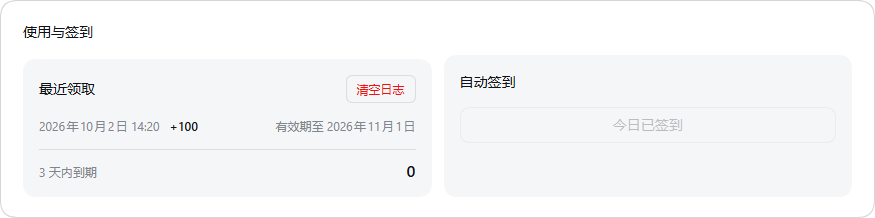
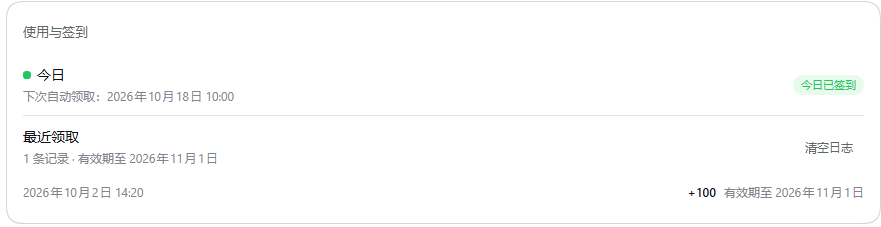
docs(readme): refresh the UI tour and explain npm/market distribution
- regenerate the tour images from the 0.4.0 UI (composer chip, quota
  panel, account/sign-in cards, model card) so no screenshot shows the
  old package name
- add a distribution section: GitHub install (prebuilt lib) vs npm
  install (once published, no build permission) and why the market
  finds a plugin only through its configured index, not the npm search
- localize the settings-page screenshot captions

diff --git a/README.md b/README.md
@@ -52,7 +52,7 @@
 
 设置页是四张紧凑设置卡：**账号**（登录状态、套餐、凭证来源、变体切换、更换/清除 PAT）、**签到**（今日领取、最近领取台账、清空日志）、**模型**（目录来源与刷新、逐模型开关、上下文窗口滑块、统一保存）、**高级设置**（每日自动签到与签到时刻、刷新间隔、额度读数开关）。额度展示已移到输入框读数，页面不再堆叠空卡片。所有数值来自 Qoder 接口，未声明的条目不凭空出现。
 
-![插件详情页：账号与可用额度](assets/plugin-page.png)
+![设置卡片：账号与签到](assets/plugin-page.png)
 
 「签到」把今日领取、实际到手的领取台账与清空日志放在一起：
 
@@ -74,11 +74,11 @@
 
 DSH 0.1.7 起把插件配置统一收进**「插件」页**（0.2.x 沿用同一套槽位）。装好后它出现在「插件」页的**「已安装」**分组里：
 
-![插件页中的 dsh-qoder-plugin](assets/plugin-list.png)
+![「插件」页的已安装插件分组](assets/plugin-list.png)
 
 点它进入包详情页，设置正文**直接内联**在包描述下方——这就是本插件的设置界面：
 
-![插件详情页：描述与内联的设置卡片](assets/plugin-page.png)
+![设置卡片：四张紧凑卡自上而下排列](assets/plugin-page.png)
 
 卡片本身不自绘外壳（标题、图标、面包屑、版本与开关都由「插件」页绘制），只渲染配置正文：四张设置卡自上而下排列，没有折叠、没有二级页签，任何一次点击都不会把内容藏起来。深色主题、紧凑侧栏与键盘焦点均由 DSH 主题令牌接管，插件不自带配色。
 
@@ -121,6 +121,13 @@ dsh plugin --profile web add github:road-kid/dsh-qoder-plugin
 > 旧包请从 profile 移除（插件管理器里的「卸载」，或
 > `dsh plugin --profile web remove dsh-connect-qoder-x`）。
 
+
+
+### 分发与市场收录
+
+- **从 GitHub 安装**（见上，推荐）：仓库里带着构建好的 `lib/`，直接取源码即可用，不需要额外的构建脚本许可。
+- **从 npm 安装**：本包尚未发布到 npm；发布后 `dsh plugin add dsh-qoder-plugin` 会拿到预构建产物，同样不需要构建许可（参见 DSH 的[插件发布指南](https://github.com/deepseek-ai/deepseek-harness/blob/main/docs/user/develop/basic/publish.md)）。
+- **在「发现」里搜不到名字？** DSH 的插件市场按配置的**市场索引**（`index.json`）检索，并不直接搜索 npm：只发布 npm、但包未被任何索引收录时，市场里仍然搜不到。想让它可被搜索，需要发布到 npm 后用 DSH 自带的 `plugin-market-generator` 生成索引，或把自建索引的 URL 添加进「自定义插件市场」。
 
 ---
 
